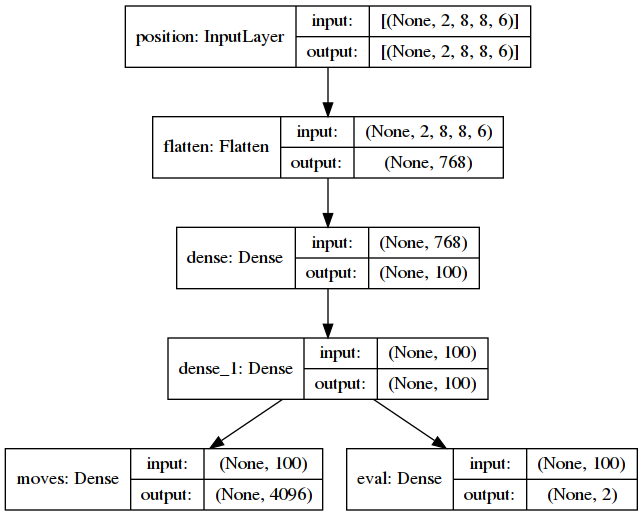
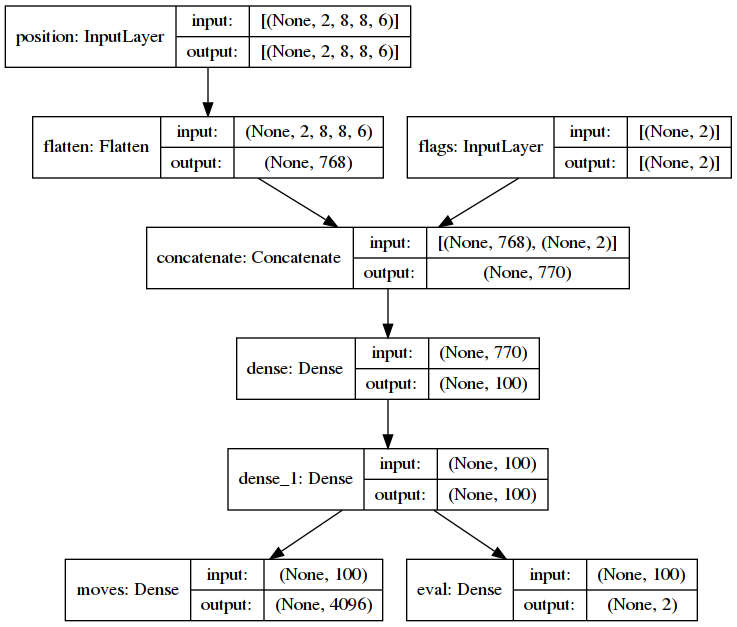
Added flags to model

Changed region(s): [[0.0, 0.0, 0.9953, 0.9922]]

diff --git a/training.py b/training.py
@@ -23,16 +23,23 @@ def play_one_game(pwhite, pblack, rnd):
     pwhite.board = board
     pblack.board = board
 
-    while True:  # and board.fullmove_number < 150
-        if not pwhite.makes_move(rnd):
-            break
-        if not pblack.makes_move(rnd):
-            break
+    try:
+        while True:  # and board.fullmove_number < 150
+            if not pwhite.makes_move(rnd):
+                break
+            if not pblack.makes_move(rnd):
+                break
 
-        if is_debug():
+            if is_debug():
+                board.write_pgn(os.path.join(os.path.dirname(__file__), "last.pgn"), rnd)
+    except:
+        last = board.move_stack[-1]
+        logging.warning("Final move: %s %s %s", last, last.from_square, last.to_square)
+        logging.warning("Final position:\n%s", board.unicode())
+        raise
+    finally:
+        if board.move_stack:
             board.write_pgn(os.path.join(os.path.dirname(__file__), "last.pgn"), rnd)
-
-    board.write_pgn(os.path.join(os.path.dirname(__file__), "last.pgn"), rnd)
 
     avg_score_w = sum([x.get_eval() for x in pwhite.moves_log]) / float(len(pwhite.moves_log))
     avg_score_b = sum([x.get_eval() for x in pblack.moves_log]) / float(len(pblack.moves_log))
@@ -78,6 +85,13 @@ class DataSet(object):
         else:
             logging.debug("no increase")
 
+        while len(self.dataset) > 10000:
+            mmin = min([x.from_round for x in self.dataset])
+            logging.info("Removing things older than %s", mmin)
+            for x in list(self.dataset):
+                if x.from_round <= mmin:
+                    self.dataset.remove(x)
+
 
 def set_to_file(draw, param):
     lines = ["%s\n" % item for item in draw]
@@ -122,11 +136,15 @@ def play_with_score(pwhite, pblack):
             winning.update(bmoves)
             losing.update(wmoves)
         else:
+            for x, move in enumerate(bmoves):
+                move.forced_eval = 0.5 * float(x) / len(wmoves)
+            for x, move in enumerate(wmoves):
+                move.forced_eval = 0.5 * float(x) / len(wmoves)
             draw.update(wmoves)
             draw.update(bmoves)
 
         rnd += 1
-        if not (rnd % 20) or False:
+        if not (rnd % 960) or True:
             # if had_decisive:
             # winning.dataset -= losing.dataset
             # winning.dataset -= draw
@@ -137,20 +155,6 @@ def play_with_score(pwhite, pblack):
                 non_decisive_cnt += 1
             else:
                 non_decisive_cnt = 0
-
-            while len(winning.dataset) > 10000:
-                mmin = min([x.from_round for x in winning.dataset])
-                logging.info("Removing from winning things older than %s", mmin)
-                for x in list(winning.dataset):
-                    if x.from_round <= mmin:
-                        winning.dataset.remove(x)
-
-            while len(losing.dataset) > 10000:
-                mmin = min([x.from_round for x in losing.dataset])
-                logging.info("Removing from losing things older than %s", mmin)
-                for x in list(losing.dataset):
-                    if x.from_round <= mmin:
-                        losing.dataset.remove(x)
 
             logging.info("W: %s\tL: %s\tD: %s\tNon-dec: %s", len(winning.dataset), len(losing.dataset), len(draw),
                          non_decisive_cnt)
@@ -177,23 +181,40 @@ def play_with_score(pwhite, pblack):
 def play_per_turn(pwhite, pblack):
     dataset = DataSet("moves.pkl")
     dataset.load_moves()
-    if not is_debug():
-        pwhite.nn.learn(dataset.dataset, 20)
+    if not is_debug() and dataset.dataset:
+        pwhite.nn.train(dataset.dataset, 20)
         nn.save("nn.hdf5")
 
     rnd = max([x.from_round for x in dataset.dataset]) if dataset.dataset else 0
     while True:
         result = play_one_game(pwhite, pblack, rnd)
+        wmoves = pwhite.get_moves()
+        bmoves = pblack.get_moves()
 
-        moves = pwhite.get_moves() + pblack.get_moves()
-        moves = list(filter(lambda x: x.get_eval() > 0, moves))
+        if result == '1-0':
+            for x, move in enumerate(wmoves):
+                move.forced_eval = 0.5 + 0.5 * float(x) / len(wmoves)
+            for x, move in enumerate(bmoves):
+                move.forced_eval = 0.5 - 0.5 * float(x) / len(wmoves)
+        elif result == '0-1':
+            for x, move in enumerate(bmoves):
+                move.forced_eval = 0.5 + 0.5 * float(x) / len(wmoves)
+            for x, move in enumerate(wmoves):
+                move.forced_eval = 0.5 - 0.5 * float(x) / len(wmoves)
+        else:
+            for x, move in enumerate(bmoves):
+                move.forced_eval = 0.0
+            for x, move in enumerate(wmoves):
+                move.forced_eval = 0.0
+
+        moves = wmoves + bmoves
         dataset.update(moves)
 
         rnd += 1
-        if not (rnd % 20):
+        if not (rnd % 960) or not (rnd % 96):
             dataset.dump_moves()
 
-            nn.train(dataset.dataset, 20)
+            nn.train(dataset.dataset, 10)
             nn.save("nn.hdf5")
 
 
@@ -207,5 +228,5 @@ if __name__ == "__main__":
     white = Player(WHITE, nn)
     black = Player(BLACK, nn)
 
-    # play_per_turn(white, black)
-    play_with_score(white, black)
+    play_per_turn(white, black)
+    # play_with_score(white, black)

diff --git a/chessnn/__init__.py b/chessnn/__init__.py
@@ -22,7 +22,9 @@ PIECE_VALUES = {
 
 
 class MyStringExporter(pgn.StringExporter):
-    def __init__(self, comments):
+    comm_stack: list
+
+    def __init__(self, comments: list):
         super().__init__(headers=True, variations=True, comments=True)
         self.comm_stack = copy.copy(comments)
 
@@ -98,7 +100,7 @@ class BoardOptim(chess.Board):
         cnt = Counter(self._fens)
         return cnt[self._fens[-1]] >= 3
 
-    def can_claim_threefold_repetition(self):
+    def can_claim_threefold_repetition2(self):
         """
         Draw by threefold repetition can be claimed if the position on the
         board occured for the third time or if such a repetition is reached
@@ -139,11 +141,11 @@ class BoardOptim(chess.Board):
     def can_claim_draw1(self):
         return super().can_claim_draw() or self.fullmove_number > 100
 
-    def push1(self, move):
+    def push(self, move):
         super().push(move)
         self._fens.append(self.epd().replace(" w ", " . ").replace(" b ", " . "))
 
-    def pop1(self):
+    def pop(self):
         self._fens.pop(-1)
         return super().pop()
 
@@ -252,8 +254,10 @@ class BoardOptim(chess.Board):
 class MoveRecord(object):
     piece: chess.Piece
 
-    def __init__(self, position=None, move=None, kpis=None, piece=None) -> None:
+    def __init__(self, position, move, is_repeat, fifty_progress, piece=None) -> None:
         super().__init__()
+        self.fifty_progress = fifty_progress
+        self.is_repeat = is_repeat
         self.forced_eval = None
         self.ignore = False
 
@@ -268,7 +272,6 @@ class MoveRecord(object):
 
         self.to_square = move.to_square
         self.from_square = move.from_square
-        self.kpis = [int(x) for x in kpis]
 
     def __str__(self) -> str:
         return json.dumps({x: y for x, y in self.__dict__.items() if x not in ('forced_eval', 'kpis')})
@@ -276,7 +279,8 @@ class MoveRecord(object):
     def __hash__(self):
         h = xxhash.xxh64()
         h.update(self.position)
-        return sum([hash(x) for x in (h.intdigest(), self.to_square, self.from_square, self.piece)])
+        return sum([hash(x) for x in
+                    (h.intdigest(), self.to_square, self.from_square, self.piece, self.fifty_progress, self.is_repeat)])
 
     def __eq__(self, o) -> bool:
         """
@@ -287,7 +291,8 @@ class MoveRecord(object):
         po = xxhash.xxh64()
         po.update(o.position)
 
-        return pself.intdigest() == po.intdigest() and self.piece == o.piece and self.from_square == o.from_square and self.to_square == o.to_square
+        return pself.intdigest() == po.intdigest() and self.piece == o.piece and self.from_square == o.from_square \
+               and self.to_square == o.to_square and self.is_repeat == o.is_repeat and self.fifty_progress == o.fifty_progress
 
     def __ne__(self, o) -> bool:
         """
@@ -299,47 +304,10 @@ class MoveRecord(object):
         if self.forced_eval is not None:
             return self.forced_eval
 
-        # material, attacks, defences, threats, threatened
-
-        # first criteria
-        if self.kpis[0] < 0:  # material loss
-            return 0.0
-
-        if self.kpis[4] > 0:  # threats up
-            return 0.0
-
-        if self.kpis[2] < 0:  # defence down
-            return 0.0
-
-        # second criteria
-        if self.kpis[0] > 0:  # material up
-            return 1.0
-
-        if self.kpis[2] > 0:  # defence up
-            return 1.0
-
-        if self.kpis[4] < 0:  # threats down
-            return 1.0
-
-        # third criteria
-        if self.kpis[1] > 0:  # attack more
-            return 0.75
-
-        if self.kpis[1] < 0:  # attack less
-            return 0.0
-
-        # fourth criteria
-        # if self.kpis[1] > 0:  # mobility up
-        #    return 0.5
-
-        # if self.kpis[1] < 0:  # mobility down
-        #    return 0.0
-
-        # fifth criteria
-        if self.piece == chess.PAWN:
-            return 0.1
-
         return 0.0
+
+    def get_move_num(self):
+        return 64 * self.from_square + self.to_square
 
 
 def is_debug():

diff --git a/chessnn/nn.py b/chessnn/nn.py
@@ -10,6 +10,8 @@ import numpy as np
 from chess import PIECE_TYPES
 
 # noinspection PyProtectedMember
+from chessnn import MoveRecord
+
 logging.root.removeHandler(absl.logging._absl_handler)
 
 from tensorflow.python.keras import models, layers, utils, callbacks, regularizers
@@ -56,10 +58,6 @@ class NN(object):
         if validation_data is not None:
             self.validate(validation_data)
 
-        assert res.history['acc'][-1] >= self._train_acc_threshold, "Training has failed"
-        if validation_data is None:
-            assert res.history['val_acc'][-1] >= self._validate_acc_threshold
-
     def validate(self, data):
         logging.info("Preparing validation set...")
         inputs, outputs = self._data_to_training_set(data, False)
@@ -88,16 +86,16 @@ class NNChess(NN):
 
         position = layers.Input(shape=(2, 8, 8, len(PIECE_TYPES)), name="position")
 
-        main = layers.Flatten()(position)
+        flags = layers.Input(shape=(2,), name="flags")
+        main = layers.concatenate([layers.Flatten()(position), flags])
+
         main = layers.Dense(100, activation=activ_hidden, kernel_regularizer=reg)(main)
         main = layers.Dense(100, activation=activ_hidden, kernel_regularizer=reg)(main)
 
         out_moves = layers.Dense(4096, activation=activ_out, name="moves")(main)
         out_eval = layers.Dense(2, activation=activ_out, name="eval")(main)
 
-        outputs = [out_moves, out_eval]
-
-        model = models.Model(inputs=[position, ], outputs=outputs)
+        model = models.Model(inputs=[position, flags], outputs=[out_moves, out_eval])
         model.compile(optimizer=optimizer,
                       loss="categorical_crossentropy",
                       loss_weights=[1.0, 1.0],
@@ -108,17 +106,25 @@ class NNChess(NN):
         batch_len = len(data)
 
         inputs_pos = np.full((batch_len, 2, 8, 8, len(PIECE_TYPES)), 0.0)
+        inputs_flags = np.full((batch_len, 2), 0.0)
         out_moves = np.full((batch_len, 4096), 0.0)
         evals = np.full((batch_len, 2), 0.0)
 
         batch_n = 0
-        for pos, evl, move in data:
+        for move_rec in data:
+            assert isinstance(move_rec, MoveRecord)
+
+            pos, evl, move = move_rec.position, move_rec.forced_eval, move_rec.get_move_num()
+
             evals[batch_n][0] = evl
             evals[batch_n][1] = 1.0 - evl
             inputs_pos[batch_n] = pos
+
+            inputs_flags[batch_n][0] = move_rec.is_repeat
+            inputs_flags[batch_n][1] = move_rec.fifty_progress
 
             out_moves[batch_n][move] = 1.0
 
             batch_n += 1
 
-        return [inputs_pos], [out_moves, evals]
+        return [inputs_pos, inputs_flags], [out_moves, evals]

diff --git a/chessnn/player.py b/chessnn/player.py
@@ -26,26 +26,40 @@ class Player(object):
 
         move, geval = self._choose_best_move(pos)
 
-        self.board.push(move)
-
-        logging.debug("%d. %r %.2f\n%s", self.board.fullmove_number, move.uci(), geval, self.board.unicode())
-
         if move != chess.Move.null():
-            piece = self.board.piece_at(move.to_square)
-            log_rec = MoveRecord(position=pos, move=move, kpis=(), piece=piece.piece_type)
+            piece = self.board.piece_at(move.from_square)
+            log_rec = self._get_moverec(pos, move, geval)
+            log_rec.piece = piece.piece_type
             log_rec.from_round = in_round
-            log_rec.forced_eval = geval
 
             self.moves_log.append(log_rec)
             self.board.comment_stack.append(log_rec)
+
+        self.board.push(move)
+
+        logging.debug("%d. %r %.2f\n%s", self.board.fullmove_number, move.uci(), geval, self.board.unicode())
 
         not_over = move != chess.Move.null() and not self.board.is_game_over(claim_draw=True)
         return not_over
 
     def _choose_best_move(self, pos):
-        scores4096, geval = self.nn.inference([[pos, 0.0, 0]])
+        moverec = self._get_moverec(pos, chess.Move.null(), 0.0)
+        scores4096, geval = self.nn.inference([moverec])
         move = self._scores_to_move(scores4096)
         return move, geval[0]
+
+    def _get_moverec(self, pos, move, evl):
+        fifty = self.board.halfmove_clock / 100.0
+        repetition3 = float(self.board.is_repetition(2))
+
+        repetition = 0.0
+        if repetition3:
+            repetition = 0.5
+
+        moverec = MoveRecord(pos, move, repetition, fifty)
+        moverec.forced_eval = evl if not repetition else 0.0
+        moverec.forced_eval = evl if not repetition else 0.0
+        return moverec
 
     def _scores_to_move(self, scores_restored):
         cnt = 0
@@ -56,7 +70,7 @@ class Player(object):
                 move = flipped
 
             if not self.board.is_legal(move):
-                logging.debug("Invalid move suggested: %s", move)
+                # logging.debug("Invalid move suggested: %s", move)
                 cnt += 1
                 continue
 

diff --git a/README.md b/README.md
@@ -155,3 +155,5 @@ Let me take some rest from working for new startup. Starting to change the code 
 - Still no good solution for 3-fold and 50-move avoiding
 - for now, model's structure will get back to 2-layer dense, to speed up experiments
 - reading [article](https://towardsdatascience.com/how-to-teach-an-ai-to-play-games-deep-reinforcement-learning-28f9b920440a) about Q-Learning, maybe the learning strategy should change...
+
+Found out that training data were using positions _after_ move made as source of training. Oh, my...
